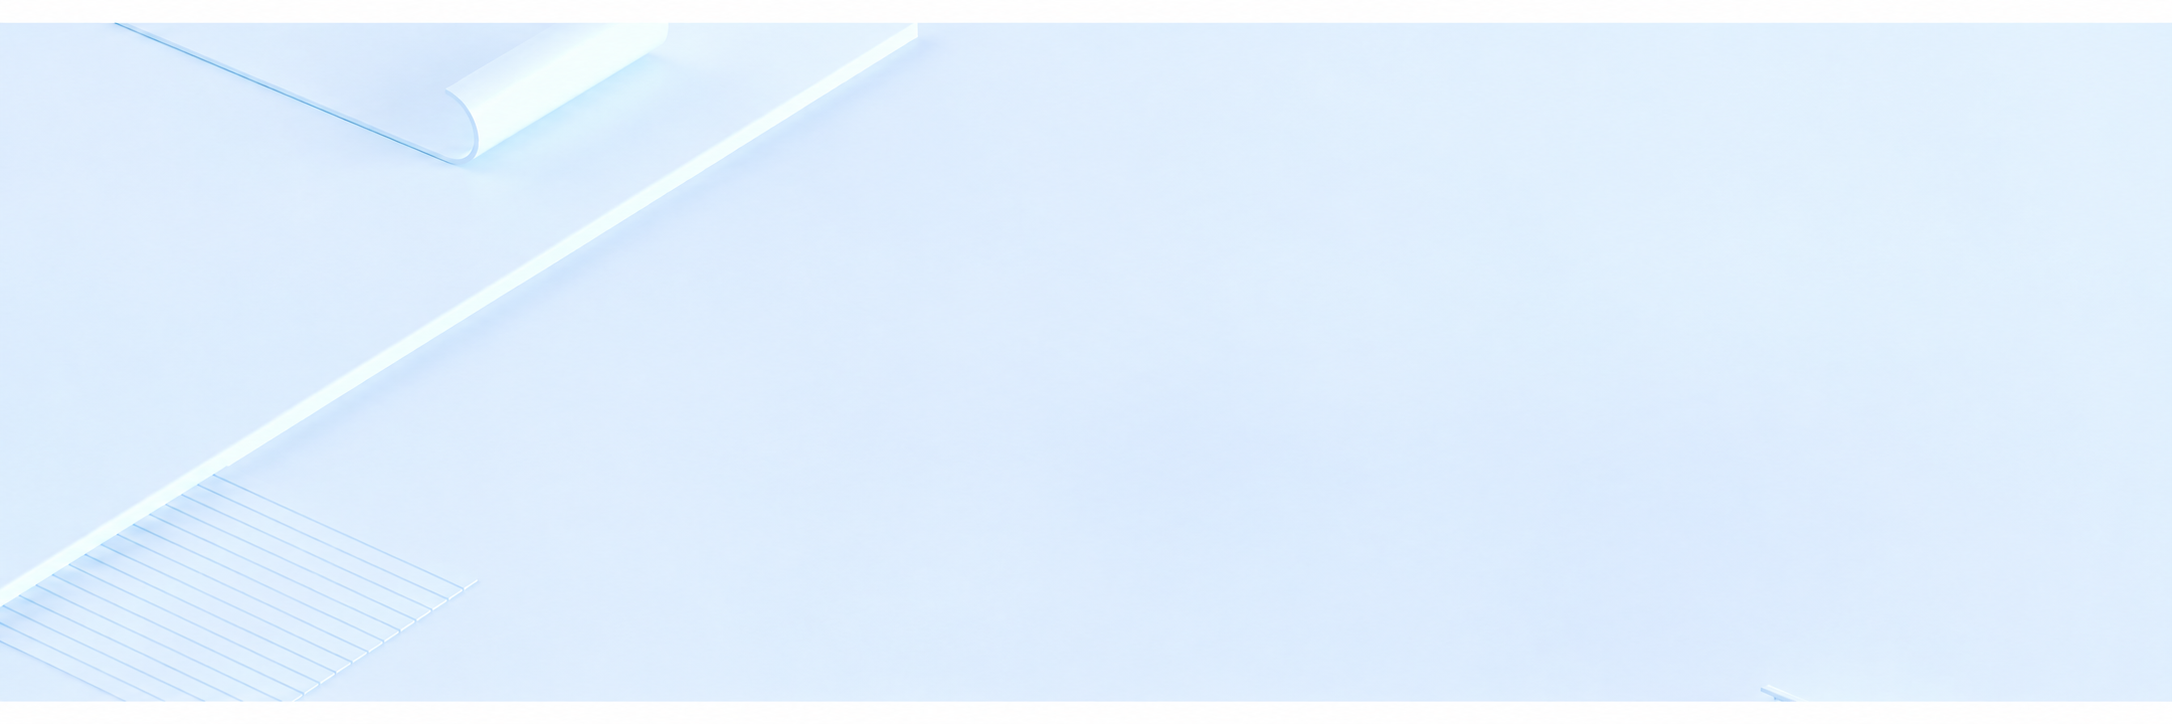
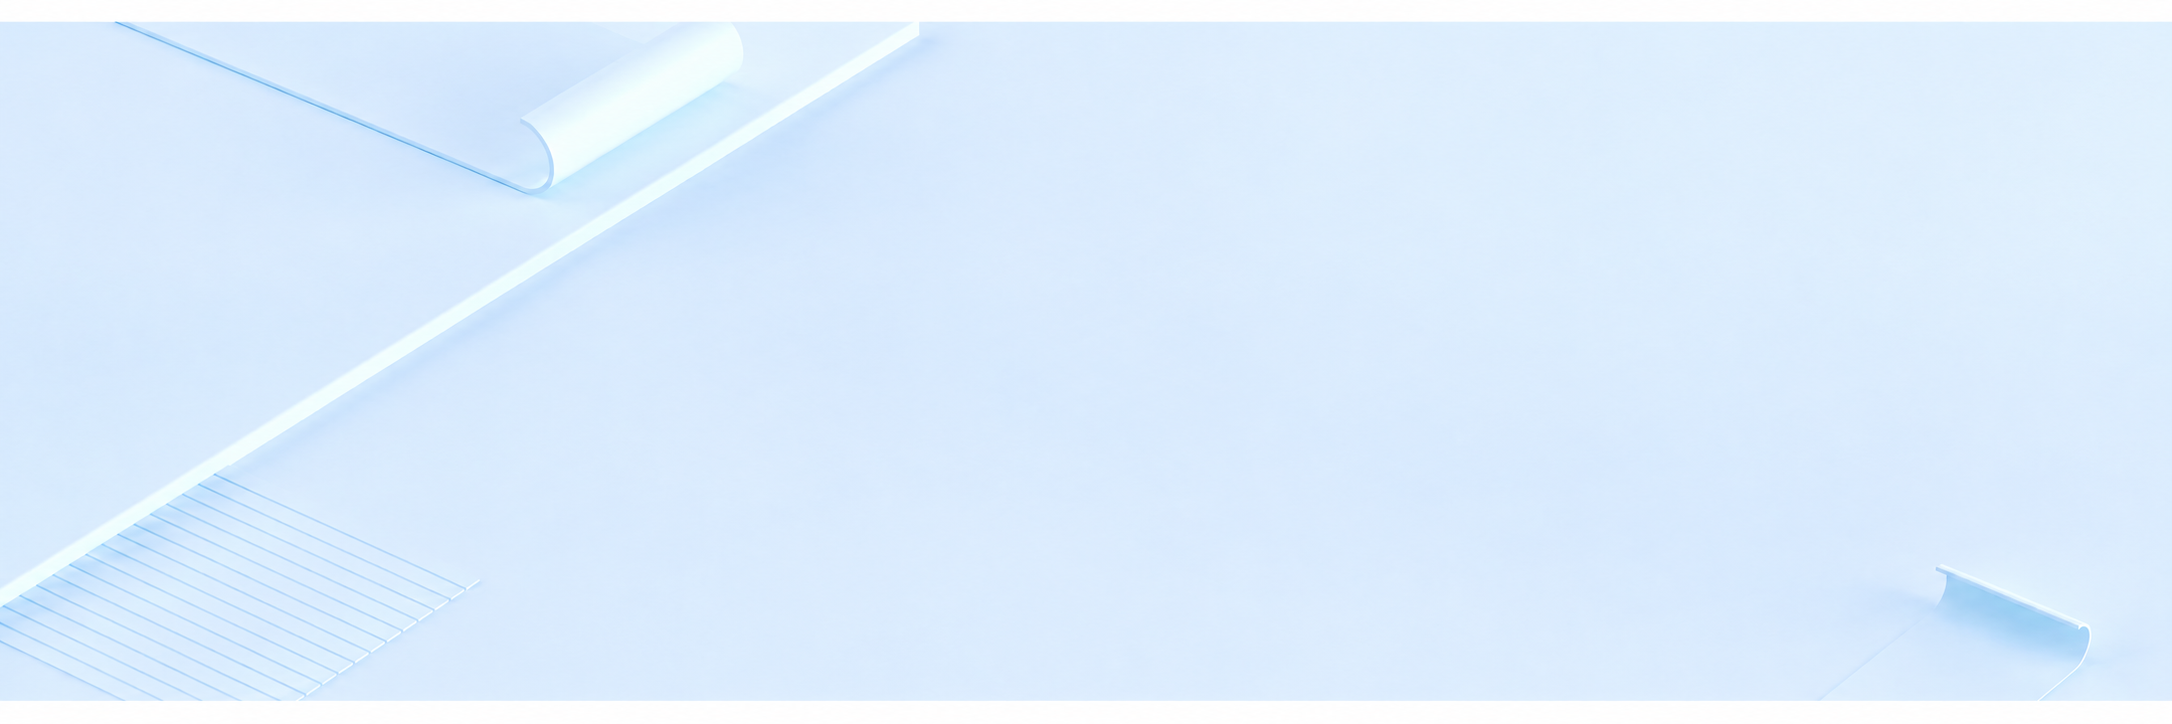
更新首页首屏背景图片

diff --git a/web/src/pages/detection/HistoryPage.tsx b/web/src/pages/detection/HistoryPage.tsx
@@ -358,7 +358,7 @@ export default function HistoryPage() {
             </thead>
             <tbody>
               {filtered.map((r) => {
-                const cardBg = '/card-chachong.svg'
+                const cardBg = '/report-type-bg.png'
                 const remainingMs = getRemainingMs(r)
                 const unpaidAndExpired = r.status === '解析完成' && !r.paid && remainingMs <= 0
                 const reportExpired = r.status === '检测完成' && isExpired180Days(r)
@@ -378,18 +378,17 @@ export default function HistoryPage() {
                     {/* 报告数据行 */}
                     <tr className="border-b border-[#F2F3F5]">
                       <td className="py-4 px-2">
-                        <div className="rounded overflow-hidden" style={{ backgroundImage: `url(${cardBg})`, backgroundSize: 'cover', minHeight: '60px' }}>
-                          <div className="px-3 py-2">
-                            <div className="flex items-center gap-2">
-                              <span className="text-[12px] font-bold px-1.5 py-0.5 rounded" style={{ background: r.typeCard.badgeBg, color: r.typeCard.badgeColor, fontSize: '10px' }}>
-                                {r.typeCard.badge}
-                              </span>
-                              <span className="text-[13px] font-bold text-[#1D2129]">{r.typeCard.logo}</span>
-                            </div>
-                            <span className="inline-block text-[11px] mt-1 px-1.5 py-0.5 rounded border text-[#F53F3F] border-[#F53F3F] bg-white">
-                              {r.version}
-                            </span>
+                        <div
+                          className="w-[300px] max-w-full rounded-[8px] overflow-hidden flex flex-col justify-center gap-2.5 px-4"
+                          style={{ backgroundImage: `url(${cardBg})`, backgroundSize: 'cover', minHeight: '96px' }}
+                        >
+                          <div className="flex items-center gap-2">
+                            <img src="/cmsq-logo.png" alt="CQMS" className="h-[20px] shrink-0" draggable={false} />
+                            <span className="text-[14px] font-bold text-[#1D2129]">{r.typeCard.logo}</span>
                           </div>
+                          <span className="self-start inline-block text-[11px] px-1.5 py-0.5 rounded border text-[#F53F3F] border-[#F53F3F] bg-white">
+                            {r.version}
+                          </span>
                         </div>
                       </td>
                       <td className="text-center py-4 px-2">

diff --git a/web/src/pages/paper/PaperDetectionPage.tsx b/web/src/pages/paper/PaperDetectionPage.tsx
@@ -199,7 +199,7 @@ export default function PaperDetectionPage() {
         style={{
           backgroundImage: 'url(/paper-banner.png)',
           backgroundSize: 'cover',
-          backgroundPosition: '0 0',
+          backgroundPosition: 'right center',
           backgroundRepeat: 'no-repeat',
         }}
       >

diff --git a/web/src/pages/public/LoginPage.tsx b/web/src/pages/public/LoginPage.tsx
@@ -96,7 +96,7 @@ export default function LoginPage() {
             <img
               src="/login-illustration.png"
               alt=""
-              className="h-[300px] w-auto"
+              className="h-[420px] w-auto -mb-[120px]"
               draggable={false}
             />
           </div>
